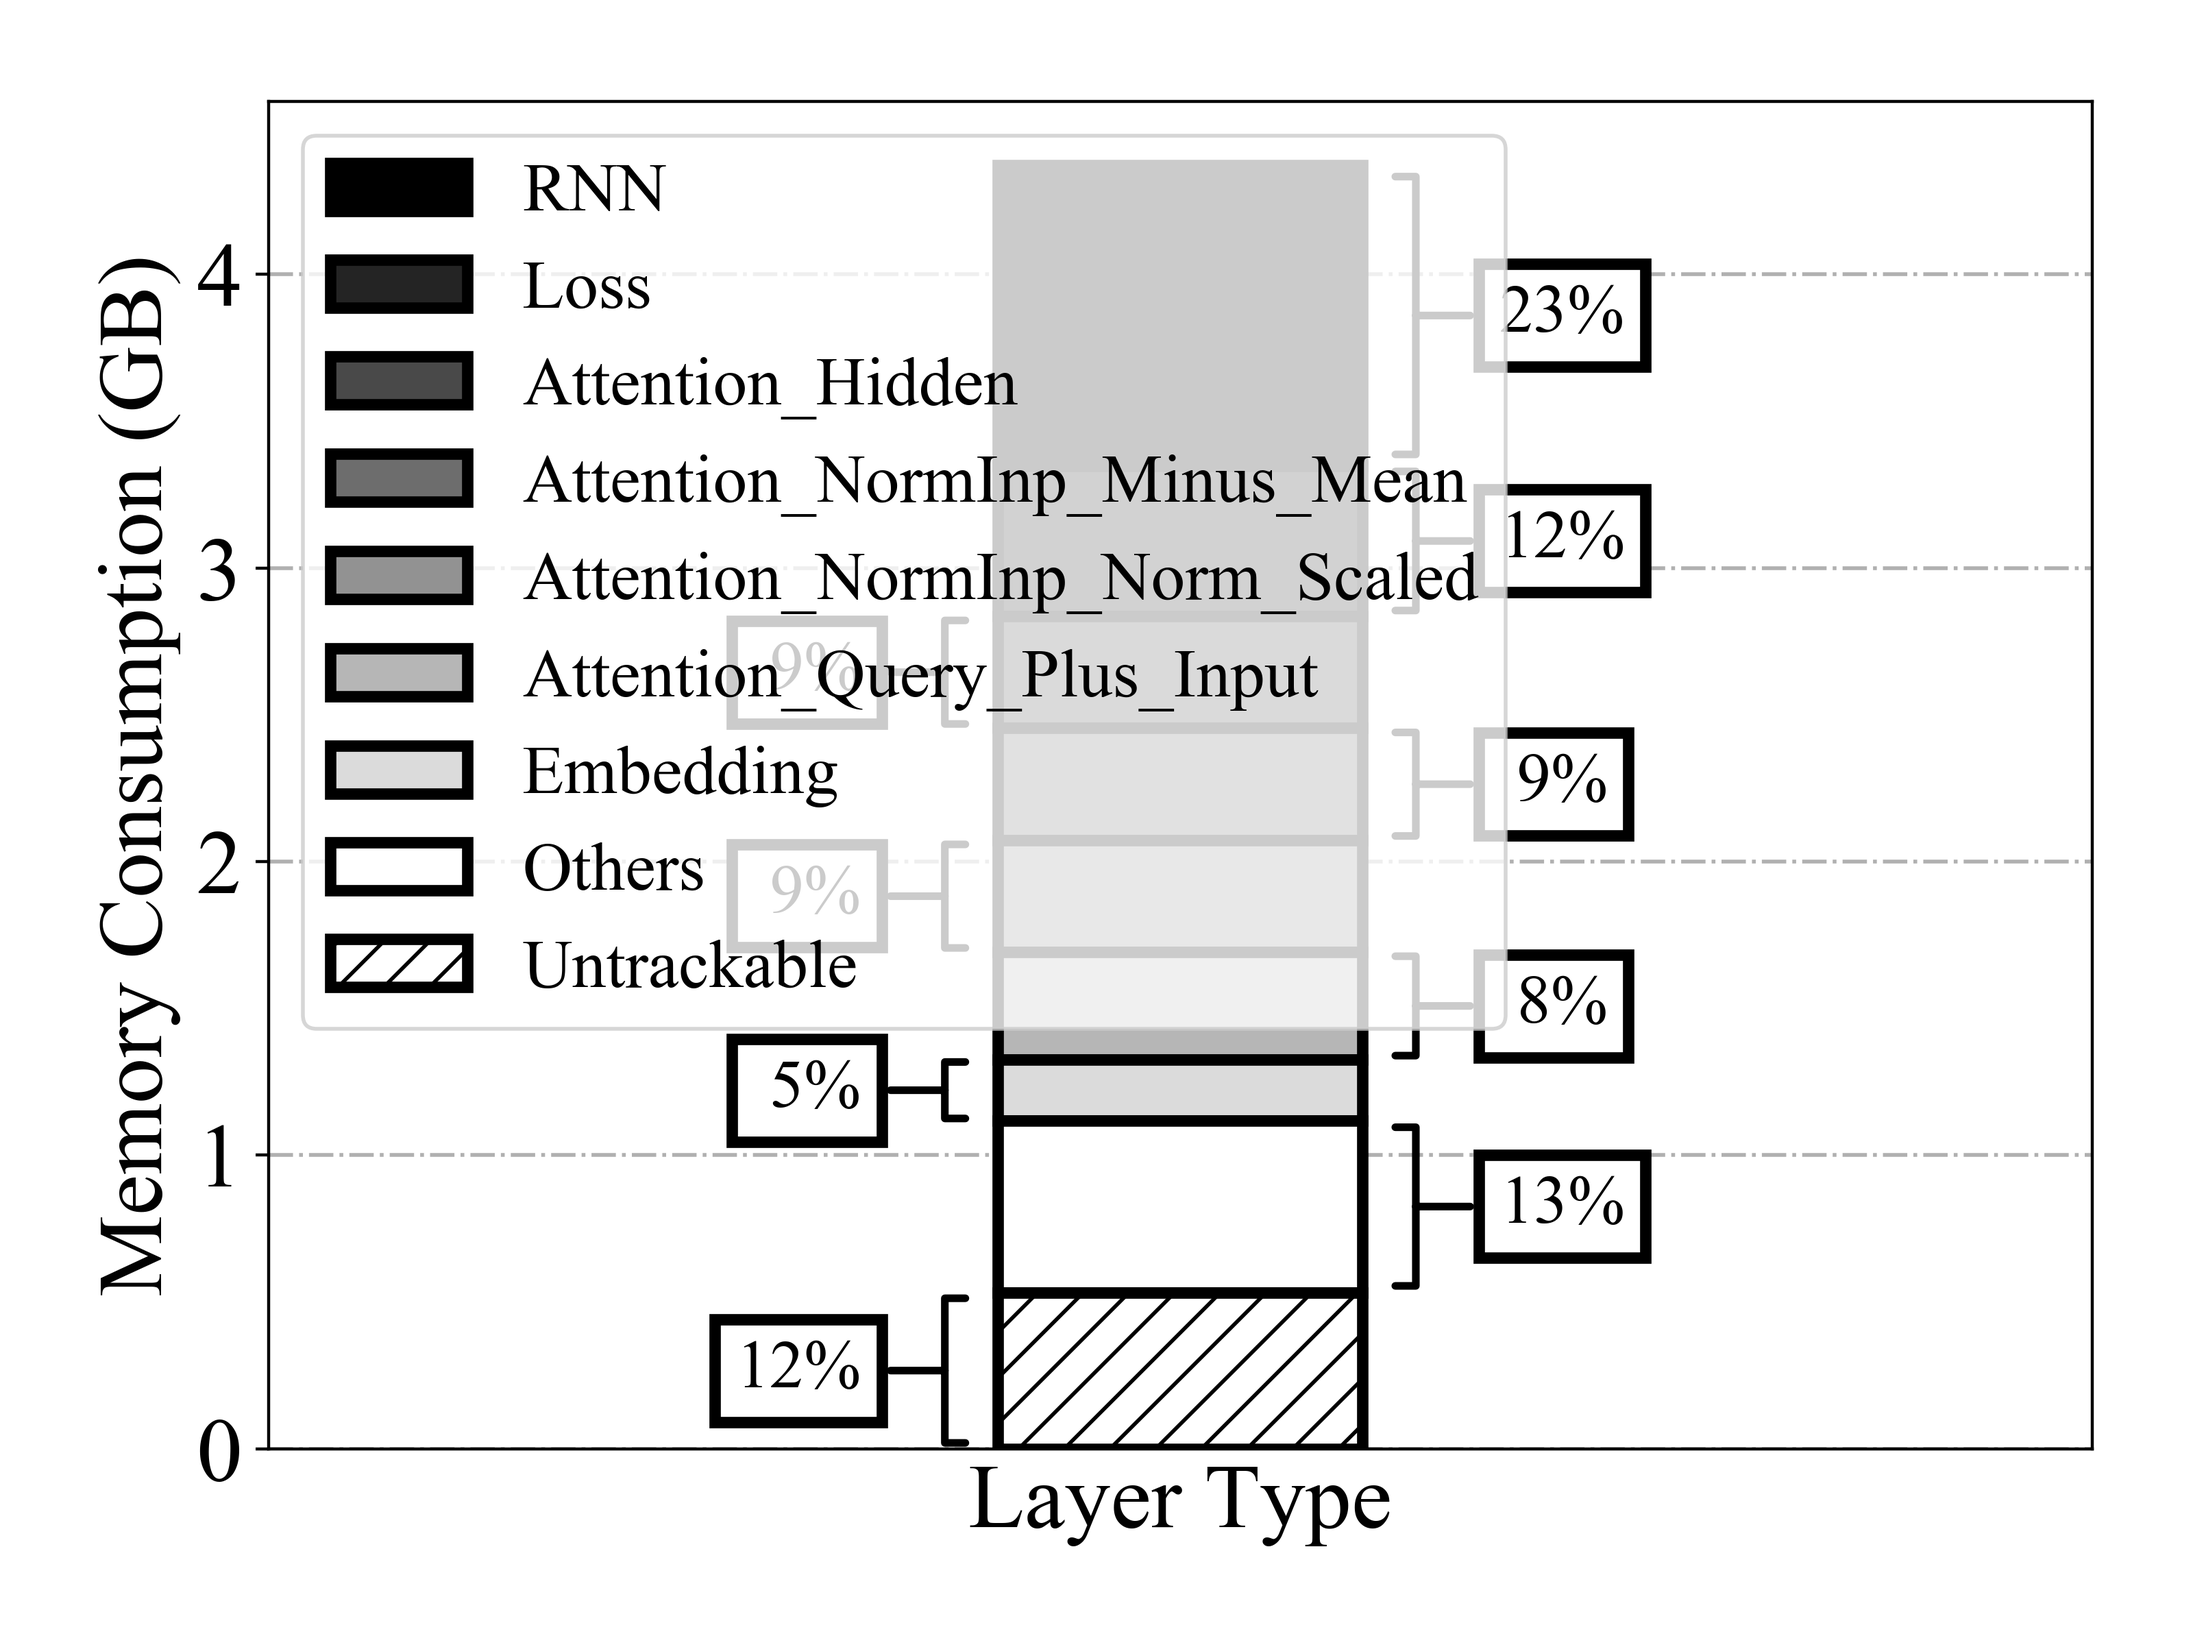
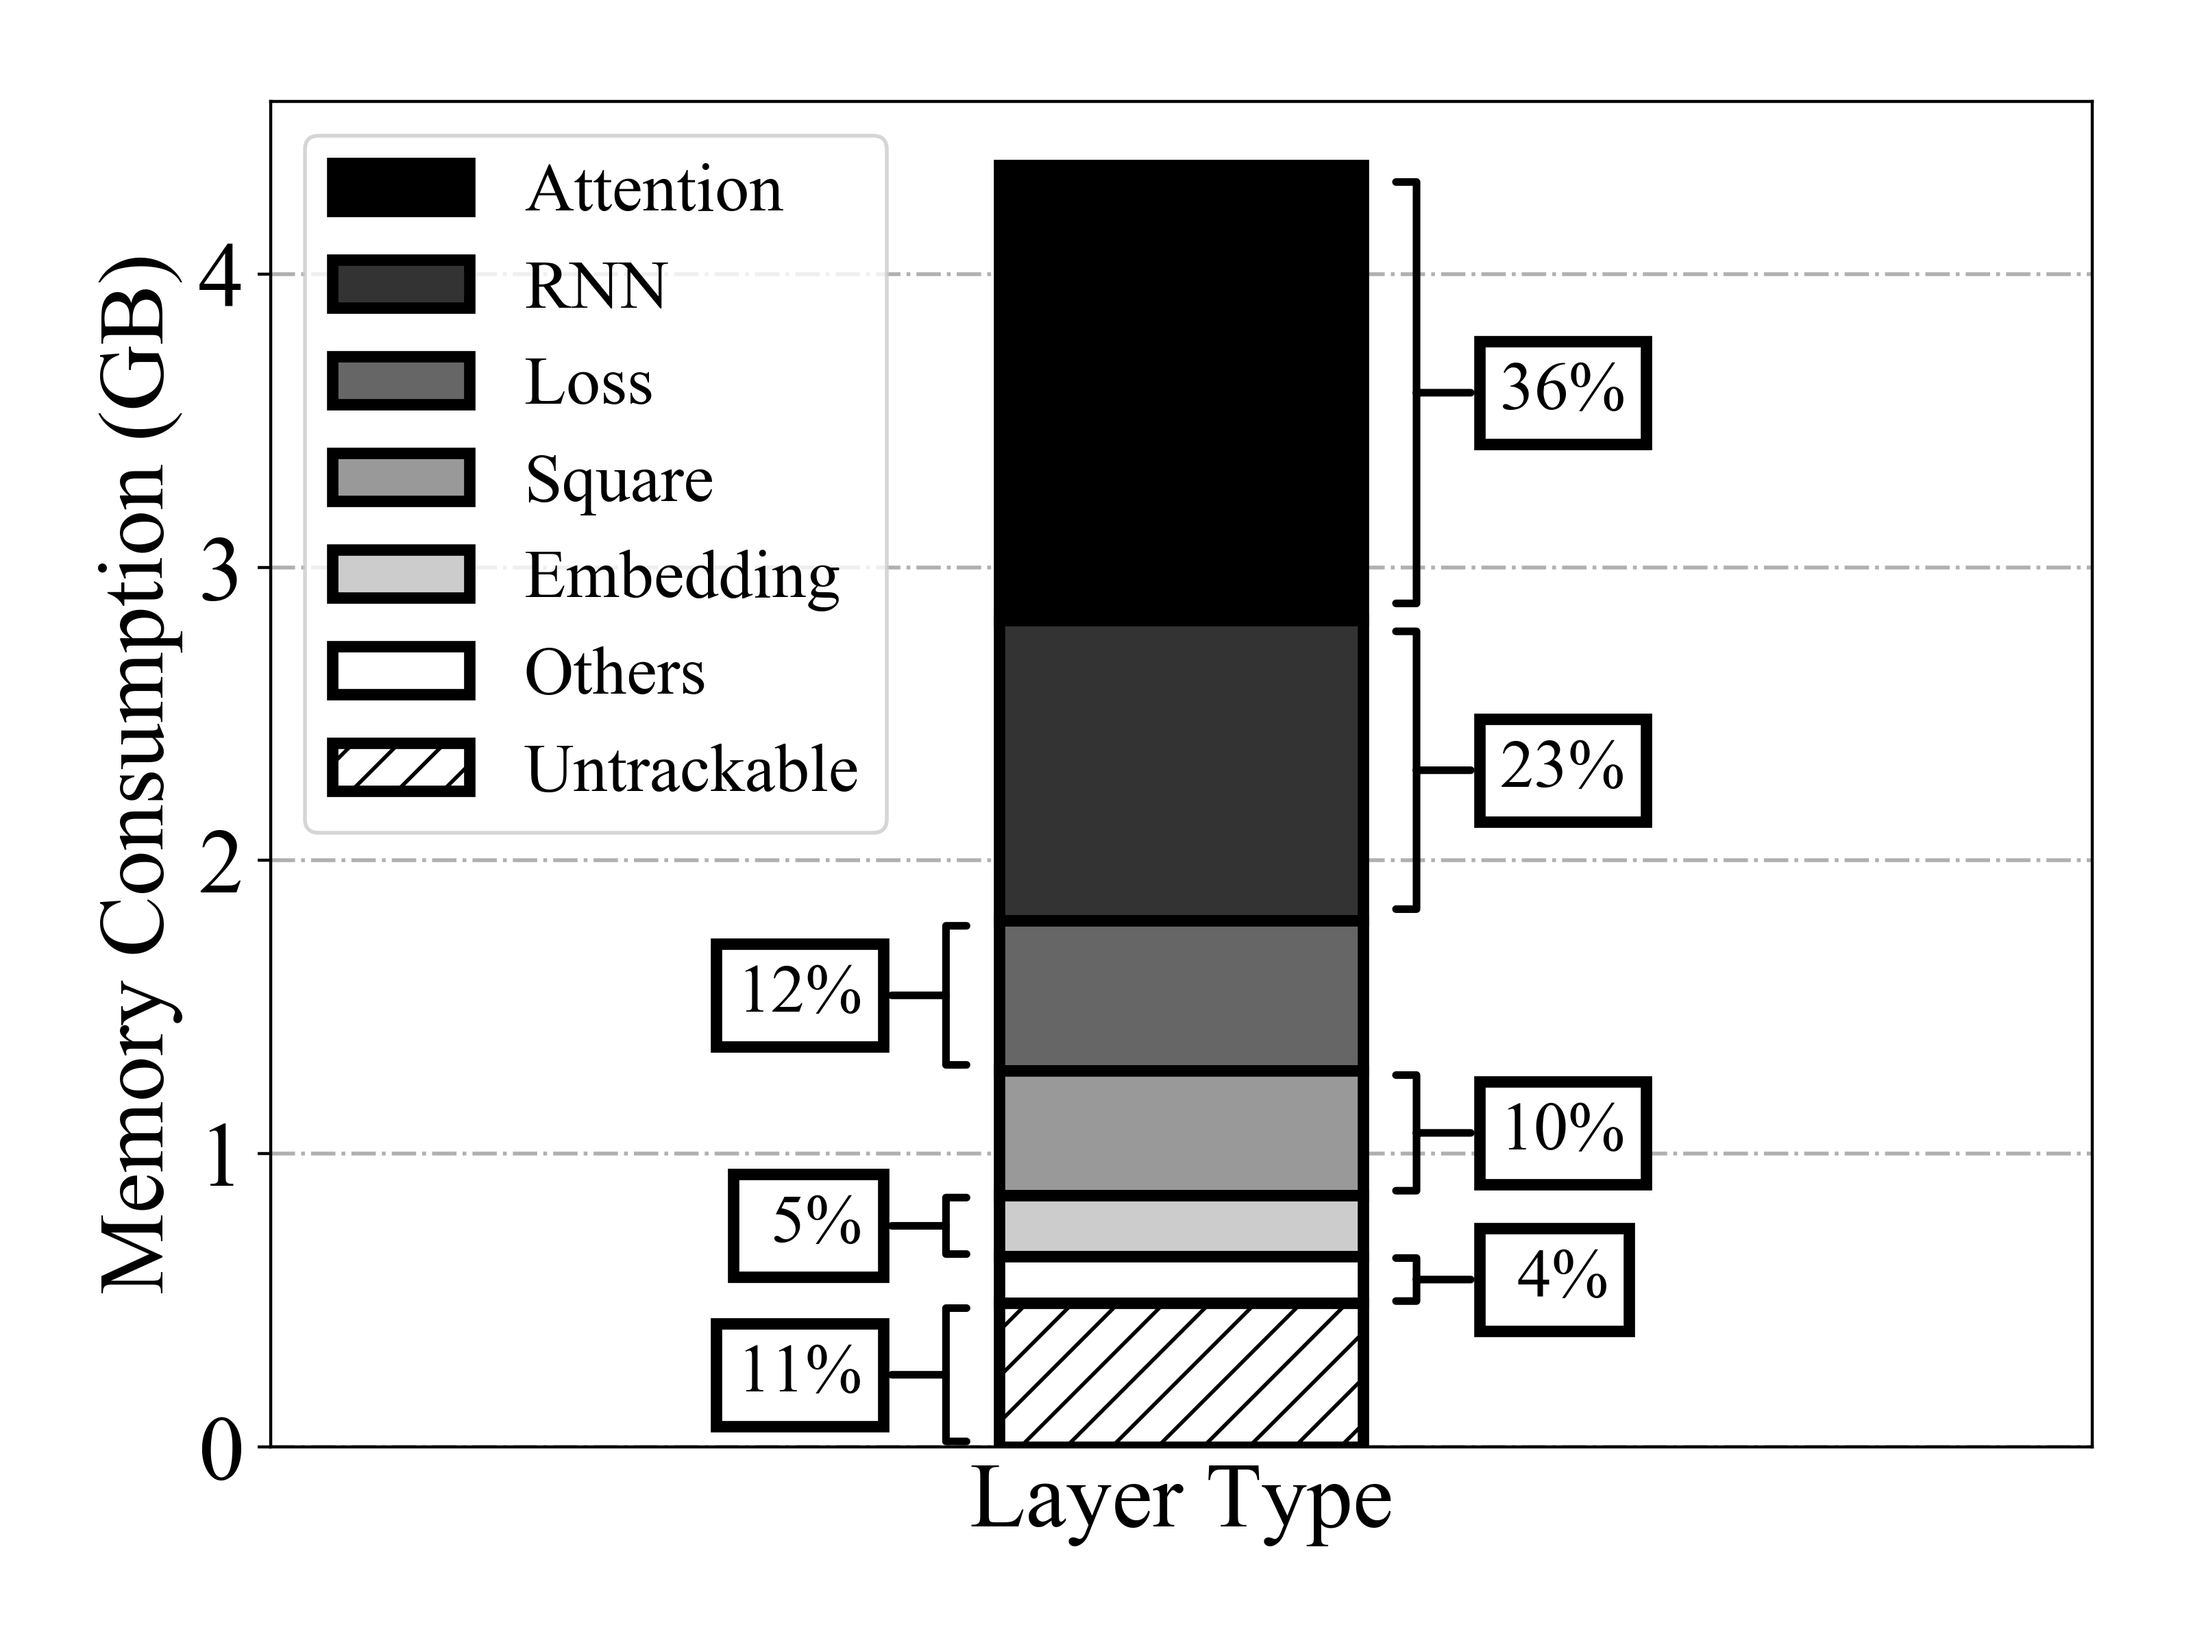
Updated the memory profiling diagrams.

diff --git a/workspace/results/memory_profile_analysis.py b/workspace/results/memory_profile_analysis.py
@@ -31,10 +31,11 @@ LAYER_REGEX_DICT maps Layer Descriptions to Regular Expressions.
 SOCKEYE_LAYER_REGEX_DICT = {
     'Embedding'          : ['target_embed',
                             'source_embed'],
-    'Attention_Query_Plus_Input'    : ['att_query_plus_input'],
-    'Attention_NormInp_Minus_Mean'  : ['att_norminp_minus_mean'],
-    'Attention_NormInp_Norm_Scaled' : ['att_norminp_norm_scaled'],
-    'Attention_Hidden'              : ['att_hidden'],
+    'Attention'          : ['att'],
+    # 'Attention_Query_Plus_Input'    : ['att_query_plus_input'],
+    # 'Attention_NormInp_Minus_Mean'  : ['att_norminp_minus_mean'],
+    # 'Attention_NormInp_Norm_Scaled' : ['att_norminp_norm_scaled'],
+    # 'Attention_Hidden'              : ['att_hidden'],
     'RNN'                : ['encoder_rnn', 
                             'encoder_birnn',
                             'decoder_rnn', 
@@ -42,9 +43,9 @@ SOCKEYE_LAYER_REGEX_DICT = {
     # 'Square'             : ['square'],
     'Loss'               : ['logit',
                             'softmax'],
+    'Square'             : ['square'],
     'Others'             : ['target_embed',
                             'source_embed',
-                            'square',
                             'mul',
                             'rsqrt',
                             'rminus',
